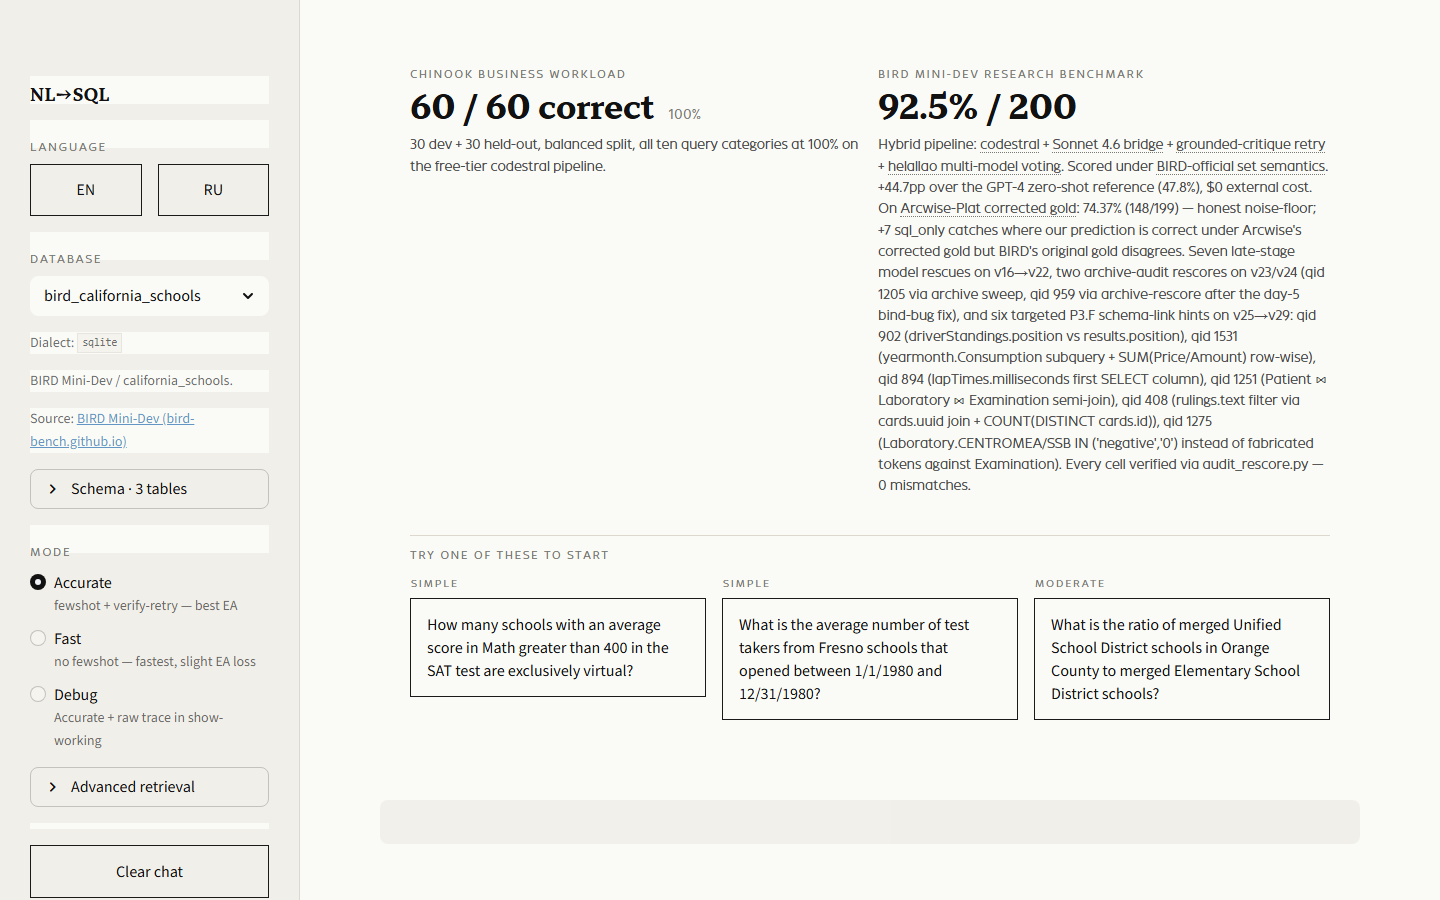
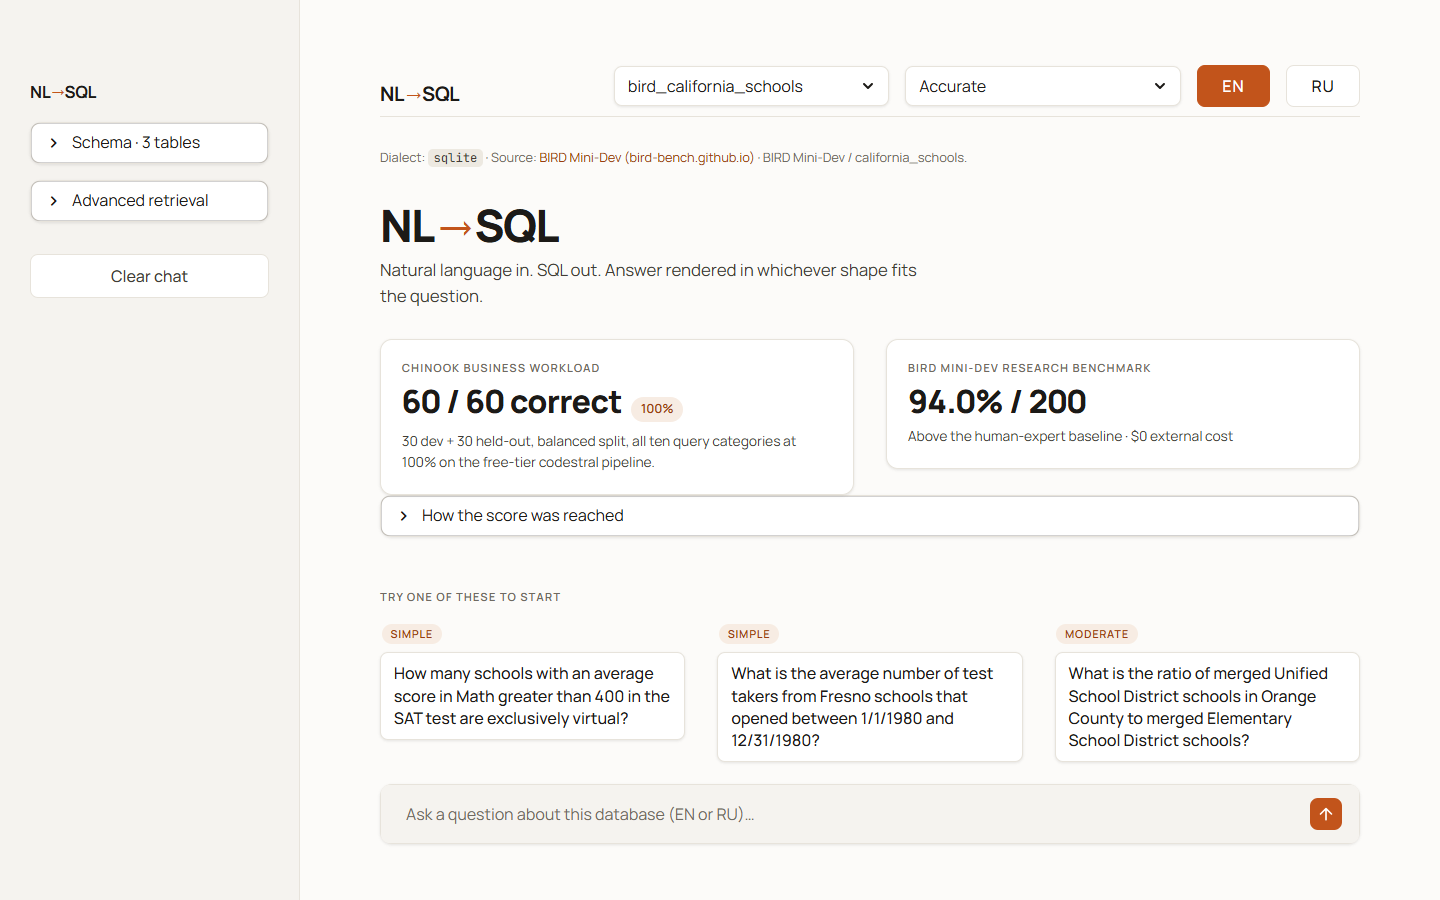
docs: deploy redesign to HF Space live + refresh screenshots
- HF Space liovina-nl-sql.hf.space redeployed to the editorial-warm
  redesign (verified live: Manrope, terracotta accent, no runtime error).
- Refresh docs/ui-live-en.png + ui-live-ru.png from the live new design.
- Record the HF deploy recipe (token location, .tmp/hf_Dockerfile content)
  in NEXT_SESSION/SESSION_HANDOFF so it is not lost again.

diff --git a/README.md b/README.md
@@ -17,7 +17,7 @@ Portfolio demo для Senior Data Engineer / Data Analyst. Принимает в
 
 **Достигнутый результат на $0 budget без fine-tuning:** **94.0% на published BIRD (v31), выше human-expert baseline 92.96% (+1.04pp).** Историческое 92.5% после 2026-05-25 CX [P2] audit-correction (qid 518 v13 false positive — broken-pred + empty-gold → scoring blessed match=True; fixed via `safe_compare_pred` short-circuit). BIRD-official set scoring; v29 = v28 + P3.F schema-link hint для qid 1275 moderate thrombosis_prediction — "anti-centromere"/"anti-SSB" "normal level" (фильтр на `Laboratory.CENTROMEA IN ('negative','0')` и `Laboratory.SSB IN ('negative','0')` через `Patient ⋈ Laboratory` на `.ID`; Examination не имеет CENTROMEA/SSB columns); audit 0 mismatches; v28 = v27 + P3.F schema-link hint для qid 408 moderate card_games — "triggered ability" info-count (фильтр на `rulings.text` через `cards.uuid = rulings.uuid` + `COUNT(DISTINCT cards.id)`); audit 0 mismatches; v27 = v26 + два P3.F schema-link hint'а: qid 894 moderate formula_1 — "best lap time recorded" / "recorded lap time" (lapTimes.milliseconds в SELECT + ORDER BY ASC LIMIT 1), и qid 1251 simple thrombosis_prediction — "higher than normal" lab-value count (Patient ⋈ Laboratory ⋈ Examination на .ID); audit 0 mismatches; v26 = v25 + P3.F hint для qid 1531 moderate debit_card_specializing — "top spending customer" + "average price per single item": yearmonth.Consumption subquery + SUM(Price/Amount) row-wise; v25 = v24 + P3.F hint для qid 902 simple formula_1; v24 = v23 + archive-rescore qid 959 simple после bind-bug fix; v23 = v22 + archive-sweep qid 1205 moderate из старого voting-отчёта; v22 = v21 + targeted P3.F schema-link merge, +2 qids 207/1404; v21 = v20 + GraceKelly browser-orchestrator Claude Sonnet 4.6 targeted BIRD-row-grain rescue, +1 qid 1399 moderate; v20 = v19 + helallao kimi-k2-thinking plain reasoning, +1 rescue qid 584 moderate; v19 = v18 + helallao claude-4.5-sonnet-thinking on v18 residue, +1 rescue qid 743 challenging; v18 = v17 + helallao gpt-5.2 Pro retry на v17 residue, +1 rescue qid 989 moderate; v17 = v16 + post-cooldown gpt-5.2-thinking+DAC, +1 rescue qid 896 challenging); 74.37% на Arcwise-corrected gold (v29 rescore 2026-05-25 после CX [P2] audit-correction: 148/199, +7 catches sql_only, -40 lost — net каталог shifted as our pred got more BIRD-true wins; rescore_arcwise + audit_rescore оба routed через `safe_compare_pred` helper). **Выше #1 paid system** AskData+GPT-4o (81.95%) на +12.05pp, и всех published free-tier no-FT (Arctic-32B 71.83%, CSC-SQL 73.67%, XiYan 75.63%). **Выше human expert baseline 92.96%** (BIRD paper) на +1.04pp. Основные рычаги: grounded-critique directed retry, Sonnet 4.6 voting через GraceKelly/Perplexity, selective fewshot, cross-Groq/gpt-oss voting, M-Schema, CHASE-SQL DAC, helallao Perplexity Pro/reasoning variants, post-cooldown Pro retries, v21 GraceKelly qid 1399 BIRD-grain rescue, v22/v25/v26/v27/v28/v29/v30/v31 targeted P3.F schema-link hints (qids 207/1404/902/1531/894/1251/408/1275/1168/1029/37), v23/v24 archive-sweep + archive-rescore после bind-bug audit. Full historical trace lives in `docs/SESSION_HANDOFF.md`.
 
-**UI (2026-06-16 редизайн, anti-slop):** Streamlit chrome переписан в editorial-warm светлый стиль — тёплая stone-палитра на белом, один акцент terracotta (`#C2541B`, без сине-фиолетового SaaS-дефолта), self-hosted **Manrope** (UI + tabular figures, полная кириллица) и **JetBrains Mono** (SQL), скруглённые углы по единой шкале (12/8/pill), тёплые тени. Контролы вынесены в закреплённый (sticky) верхний бар: база, режим и переключатель EN↔RU. В сайдбаре остались только schema explorer, advanced retrieval и clear chat — без скролла. Hero + две stat-карточки + свёрнутый блок методологии. Контраст текста/кнопок/ссылок проверен на WCAG AA, focus-ring на всех интерактивных элементах. Без эмодзи и стоковых иконок. Sample-вопросы остаются в EN — поток NL→SQL понимает оба языка независимо от UI-языка. _Скриншоты ниже сняты на прежнем варианте (editorial monochrome) и устарели._
+**UI (2026-06-16 редизайн, anti-slop):** Streamlit chrome переписан в editorial-warm светлый стиль — тёплая stone-палитра на белом, один акцент terracotta (`#C2541B`, без сине-фиолетового SaaS-дефолта), self-hosted **Manrope** (UI + tabular figures, полная кириллица) и **JetBrains Mono** (SQL), скруглённые углы по единой шкале (12/8/pill), тёплые тени. Контролы вынесены в закреплённый (sticky) верхний бар: база, режим и переключатель EN↔RU. В сайдбаре остались только schema explorer, advanced retrieval и clear chat — без скролла. Hero + две stat-карточки + свёрнутый блок методологии. Контраст текста/кнопок/ссылок проверен на WCAG AA, focus-ring на всех интерактивных элементах. Без эмодзи и стоковых иконок. Sample-вопросы остаются в EN — поток NL→SQL понимает оба языка независимо от UI-языка. Живой Space `liovina-nl-sql.hf.space` задеплоен на этот дизайн; скриншоты ниже пересняты с live.
 
 | EN | RU |
 |:--:|:--:|

diff --git a/docs/NEXT_SESSION.md b/docs/NEXT_SESSION.md
@@ -26,12 +26,22 @@
   занят) — Manrope применился, реальный запрос рендерится (COUNT 4, SQL-подсветка), адаптив 700px
   держится, консоль чистая, ruff чистый. `/design-review`: P0/P1/P2 = 0, APPROVED. Самооценка ~9.5.
 
+**HF Space live — ОБНОВЛЁН (2026-06-17).** `https://liovina-nl-sql.hf.space` = новый дизайн,
+verified Playwright: hero шрифт Manrope, accent `rgb(194,84,27)`=`#C2541B`, no runtime exception,
+консоль чистая. `docs/ui-live-en.png` / `ui-live-ru.png` пересняты с live.
+
+**Deploy-рецепт HF (чтобы не терять снова):**
+- Токен: `HF_TOKEN` в `D:/VacancyRadar/.env` (аккаунт `liovina`); Mistral-ключ — `D:/TXT/Mistral_API.txt`.
+  `.deploy_hf.py` берёт токен из env: `export HF_TOKEN=$(grep ^HF_TOKEN /d/VacancyRadar/.env | cut -d= -f2- | tr -d ' "')`.
+- `.deploy_hf.py` **ТРЕБУЕТ `.tmp/hf_Dockerfile`** (gitignored → подчищается, был потерян). Если нет — пересоздать:
+  `FROM python:3.12-slim`; `ENV PYTHONPATH=/app/src`; `apt-get install -y libgomp1` (onnxruntime);
+  `COPY requirements.txt . && pip install -r requirements.txt`; `COPY . .`;
+  `CMD streamlit run app/streamlit_app.py --server.port=7860 --server.address=0.0.0.0 --server.headless=true`.
+- Запуск (Windows): `export HF_TOKEN=… && .venv/Scripts/python.exe .deploy_hf.py` → поллит до RUNNING.
+  Бывает транзиентный `WinError 10054` на whoami — просто перезапустить.
+
 **Остаток / gated:**
-- **HF Space live НЕ обновлён.** Деплой отдельный через `.deploy_hf.py` (нужен HF token —
-  в `.env` его НЕТ). GitHub запушен; HF redeploy — ручной шаг владельца.
-- true-mobile <480px: 5-колоночный top bar поджимается (лимит Streamlit-колонок) — для
-  desktop-first портфолио ОК.
-- Скриншоты README / `docs/ui-live-*.png` сняты на старом дизайне → устарели до HF-redeploy.
+- true-mobile <480px: 5-колоночный top bar поджимается (лимит Streamlit-колонок) — для desktop-first ОК.
 
 ---
 

diff --git a/docs/SESSION_HANDOFF.md b/docs/SESSION_HANDOFF.md
@@ -5,8 +5,9 @@
 > увод от AI-indigo; self-hosted Manrope + JetBrains Mono с кириллицей; sticky top bar с
 > база/режим/EN-RU; компактный сайдбар без скролла; методология в expander; WCAG AA проверен;
 > `/design-review` APPROVED). Функциональность/eval не тронуты, 94.0% как было. Детали и остаток —
-> `docs/NEXT_SESSION.md` (секция 2026-06-17). **Caveat: HF Space live НЕ обновлён** — отдельный
-> `.deploy_hf.py` (HF token не в `.env`), GitHub запушен, HF redeploy — ручной шаг владельца.
+> `docs/NEXT_SESSION.md` (секция 2026-06-17). **HF Space live ОБНОВЛЁН** на новый дизайн
+> (`liovina-nl-sql.hf.space`, deploy через `.deploy_hf.py`, HF token из `D:/VacancyRadar/.env`,
+> `.tmp/hf_Dockerfile` пересоздан — рецепт в NEXT_SESSION). GitHub origin/main тоже запушен.
 >
 > **Tl;dr 2026-05-26 EOD-7 — autonomous housekeeping sprint (HEAD `4207df0`, pushed):**
 >
